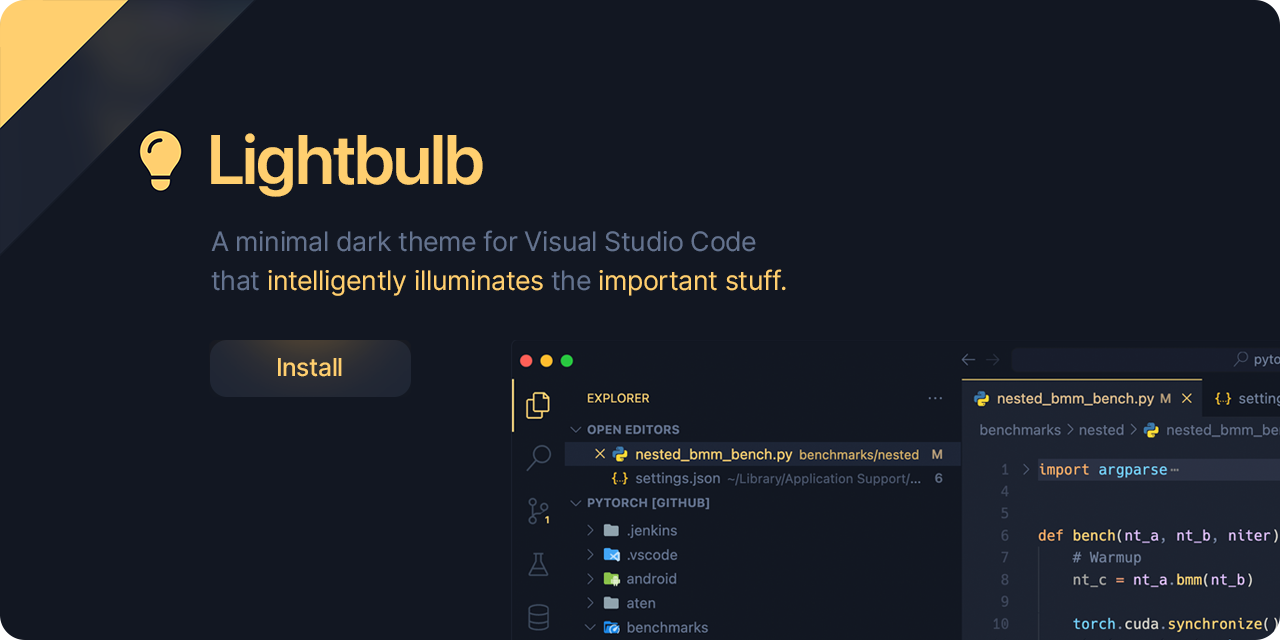
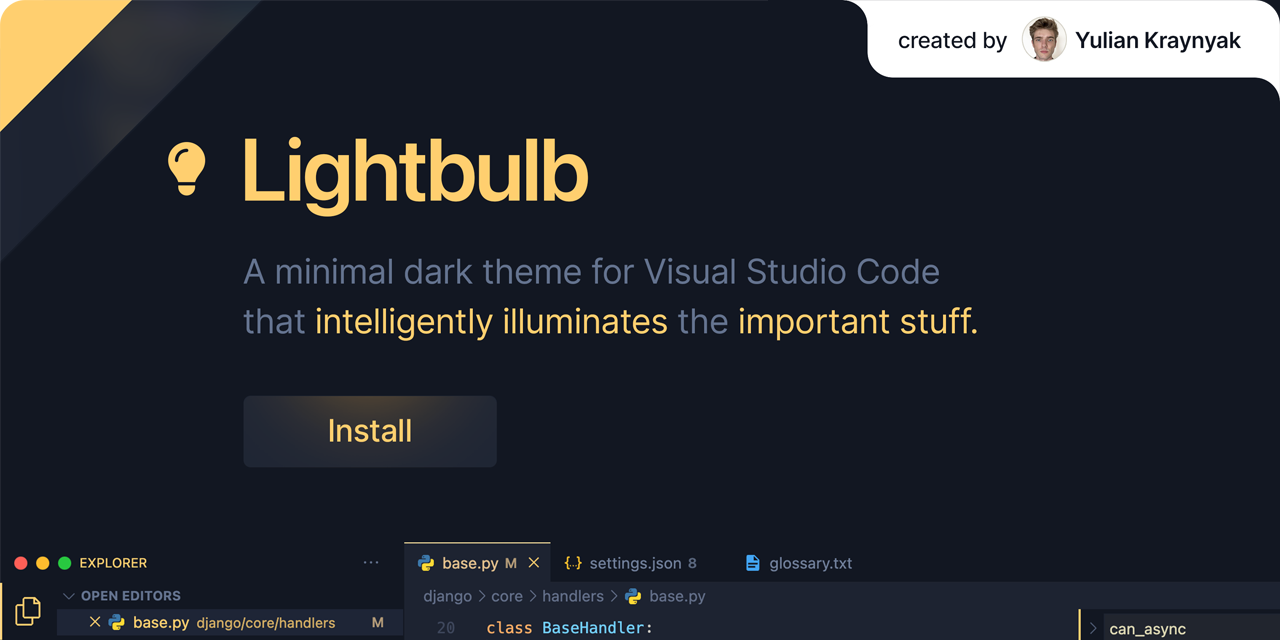
1.0.8
+ settings page styling
+ new social preview

diff --git a/README.md b/README.md
@@ -8,7 +8,7 @@
 
 [Install from the Visual Studio Marketplace](https://marketplace.visualstudio.com/items?itemName=ykray.lightbulb)
 
-## 💡 Concept
+## Concept
 
 Lightbulb is a minimal dark theme for Visual Studio Code that intelligently illuminates items of interest, while elegantly fading away unnecessary distractions.
 
@@ -18,23 +18,31 @@ This is a comprehensive theme designed over many years of experimentation with m
 
 Lightbulb is good-to-go upon install, but here's some recommended stuff to do to get the most out of it.
 
-### 1. Recommended font: `Hack Nerd Font Mono`
+### 1. Recommended font:
+
+```json
+"editor.fontFamily": "Hack Nerd Font Mono"
+```
 
 ### 2. Resize sidebar:
 
-1. Set `"window.zoomLevel": 0.45`
-2. Set `"editor.fontSize": 13`
-3. Set `"workbench.editor.wrapTabs": false`
+```json
+"window.zoomLevel": 0.45,
+"editor.fontSize": 13,
+"workbench.editor.wrapTabs": false
+```
 
 ### 3. Hide the title bar
 
-1. Install the [Customize UI](https://marketplace.visualstudio.com/items?itemName=iocave.customize-ui) extension
-2. Set `"customizeUI.titleBar": "inline"`
+Install the [Customize UI](https://marketplace.visualstudio.com/items?itemName=iocave.customize-ui) extension and set:
+
+```json
+"customizeUI.titleBar": "inline"
+```
 
 ### 4. Style TODOs
 
-1. Install the [TODO Highlight](https://marketplace.visualstudio.com/items?itemName=wayou.vscode-todo-highlight) extension
-2. Set
+Install the [TODO Highlight](https://marketplace.visualstudio.com/items?itemName=wayou.vscode-todo-highlight) extension and set:
 
 ```jsonc
 "todohighlight.keywords": [
@@ -52,14 +60,14 @@ Lightbulb is good-to-go upon install, but here's some recommended stuff to do to
 ]}
 ```
 
-## ✨ Extras
+## Extras
 
 Lightbulb also styles the following extensions (if installed):
 
 - [Numbered Bookmarks](https://marketplace.visualstudio.com/items?itemName=alefragnani.numbered-bookmarks)
 - [GitLens](https://marketplace.visualstudio.com/items?itemName=eamodio.gitlens)
 
-## 🤨 Missing colors?
+## Missing colors?
 
 Can't get em all. Feel free to suggest styling suggestions by [creating an issue](https://github.com/ykray/Lightbulb/issues).
 

diff --git a/CHANGELOG.md b/CHANGELOG.md
@@ -2,4 +2,4 @@
 
 ## [1.0.0] - 2020-11-02
 
-Official release💡
+Official release 💡
